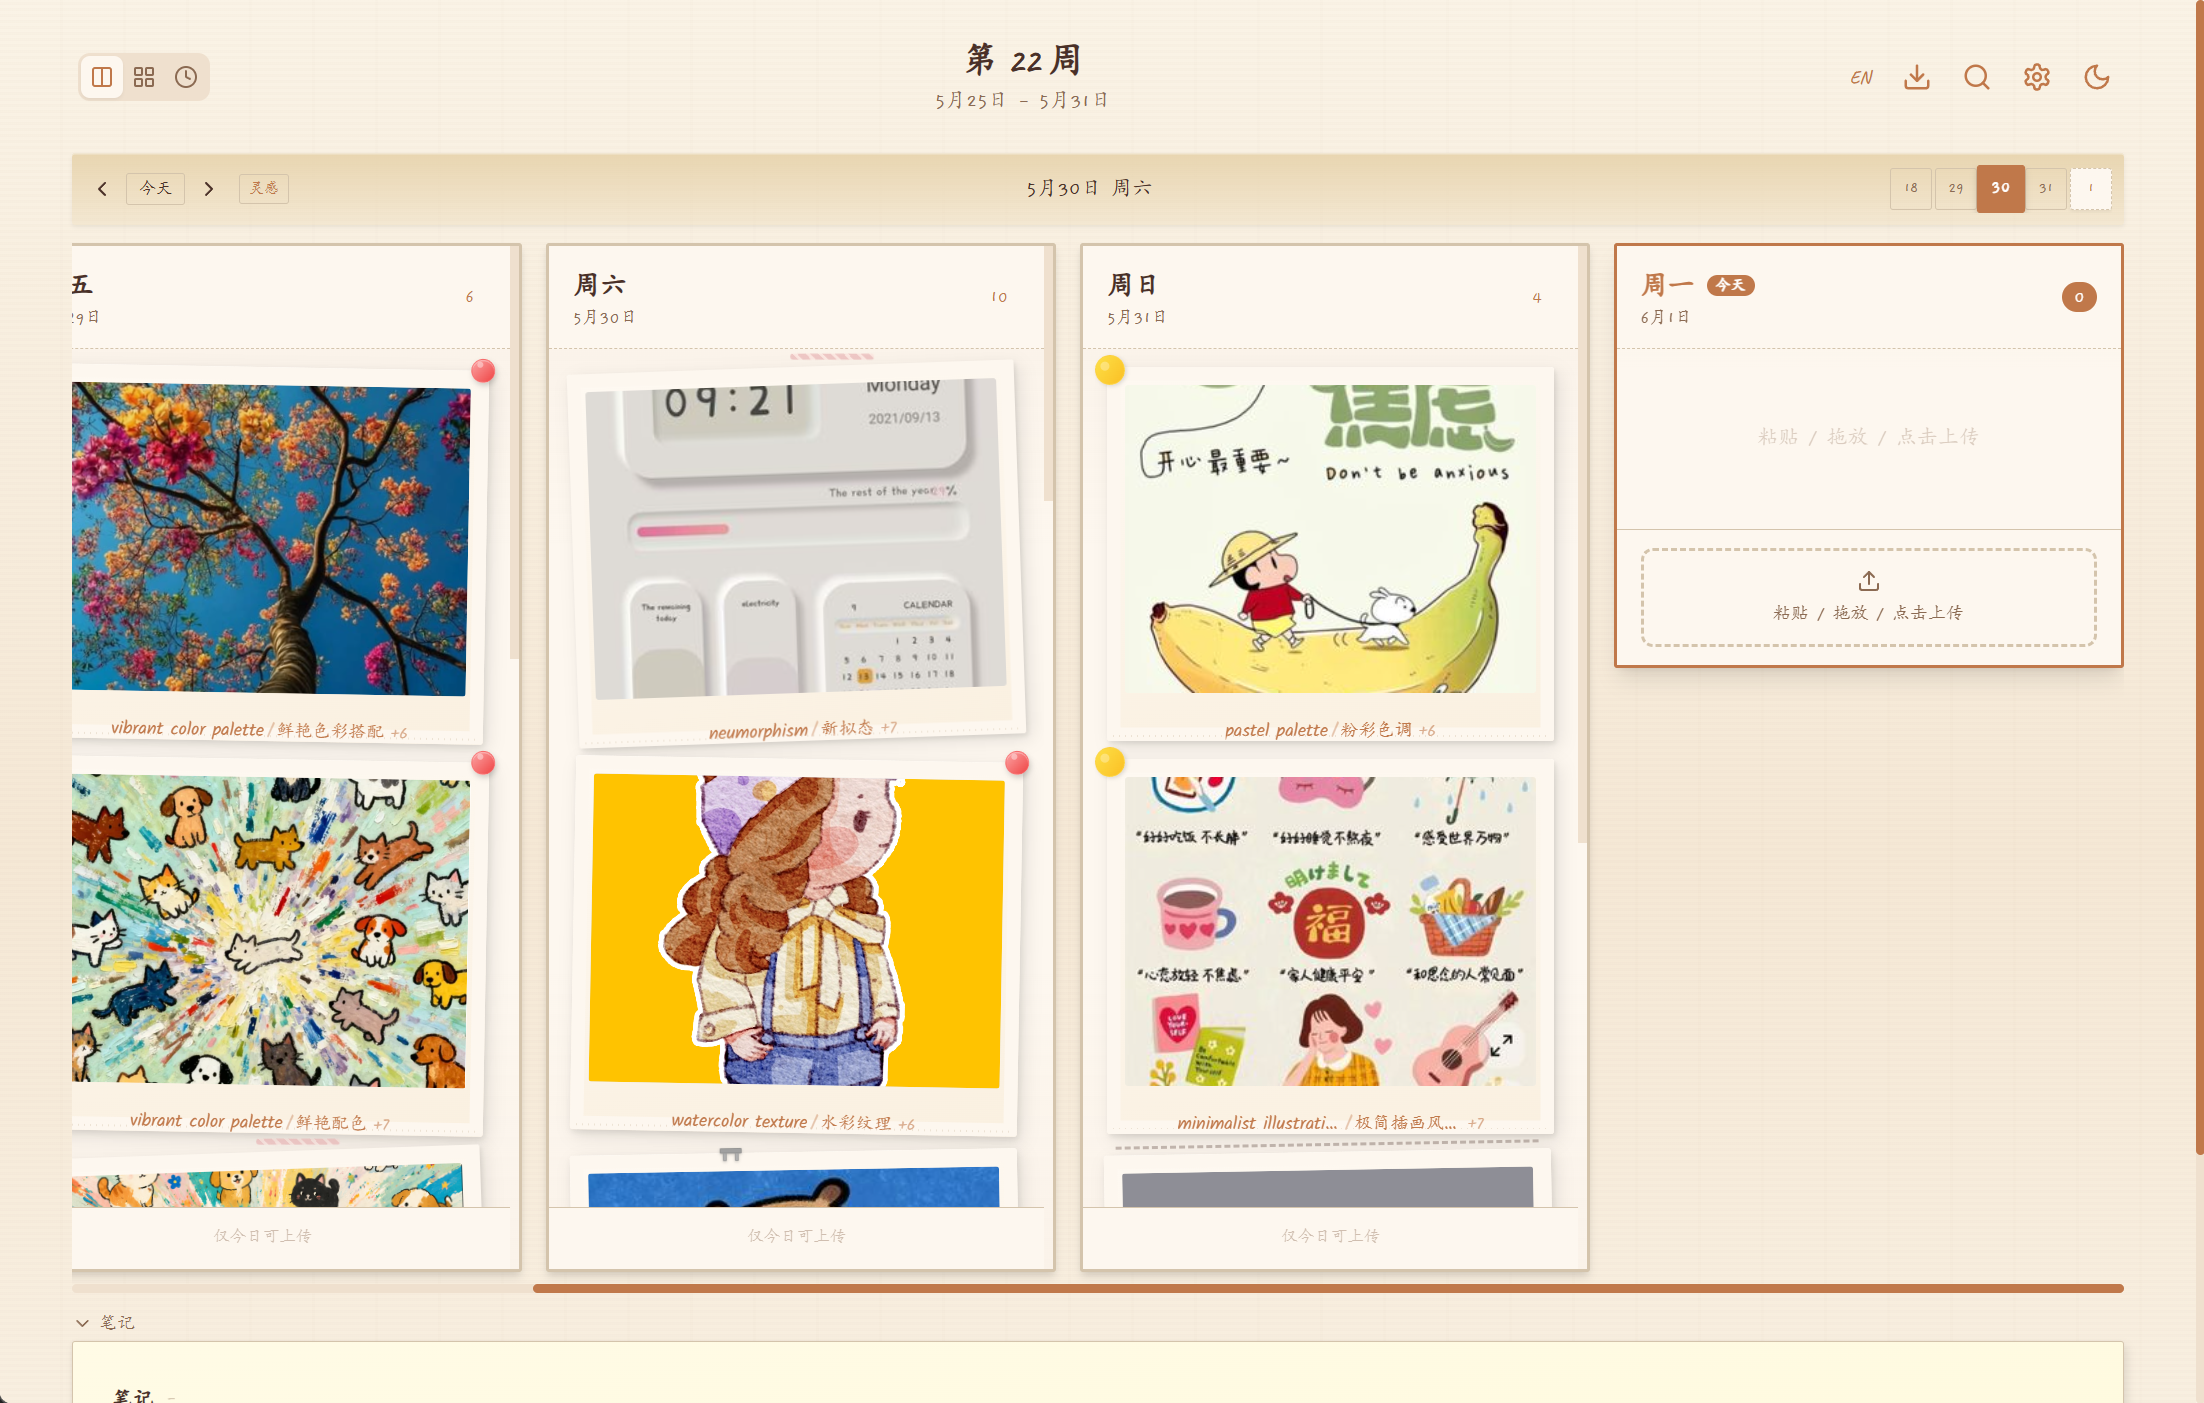
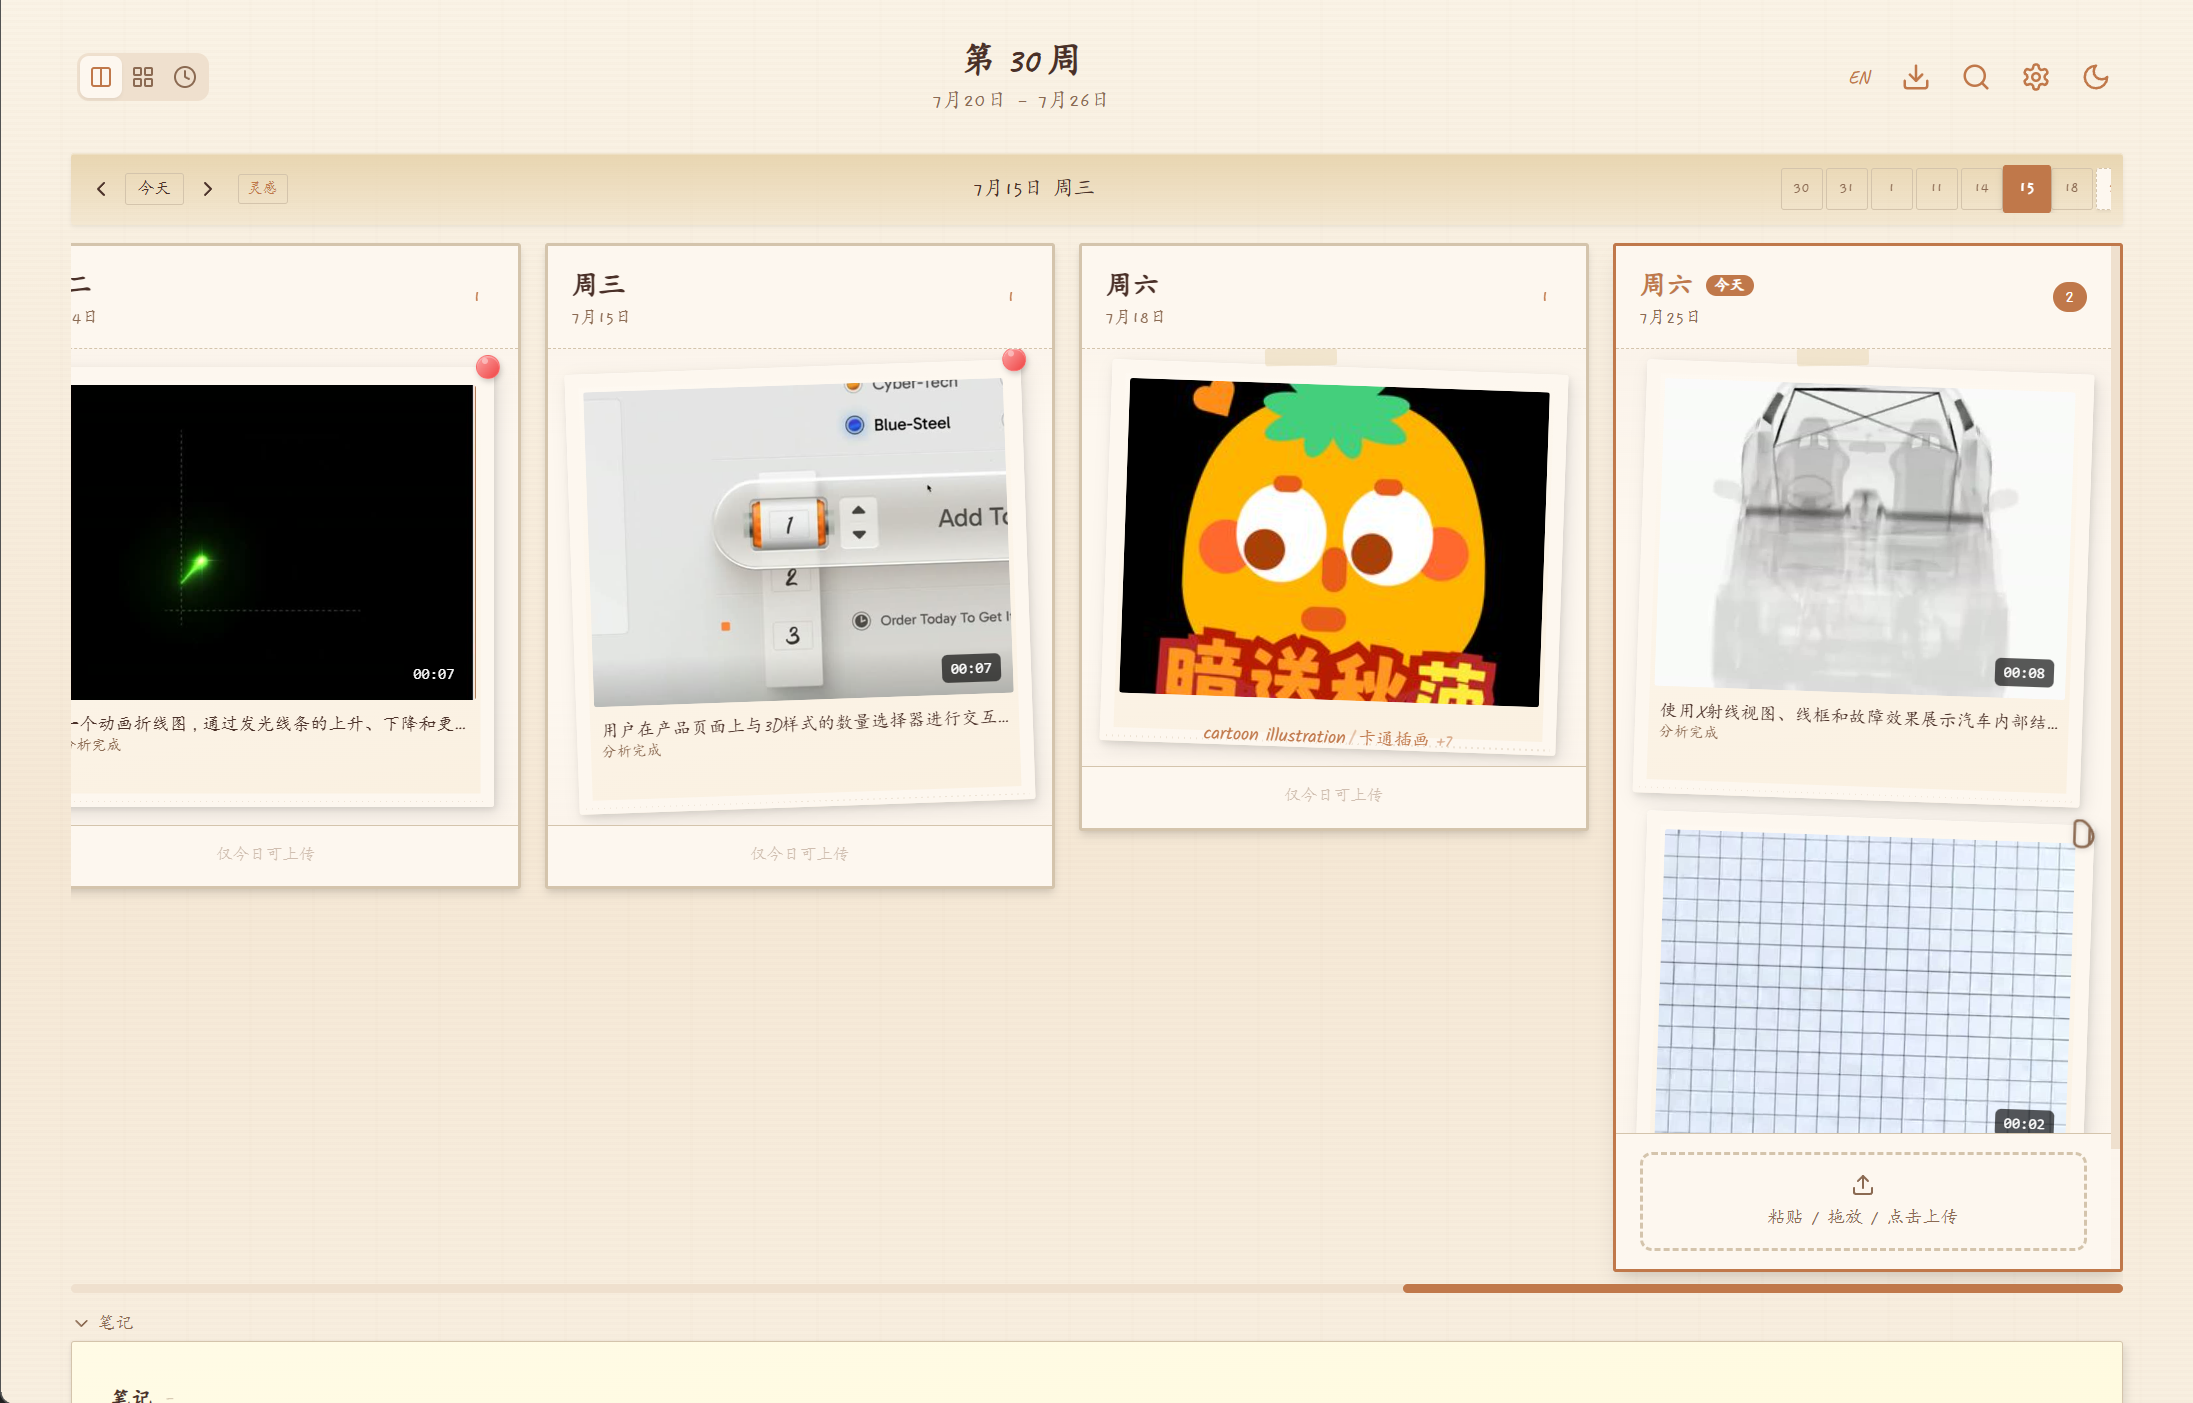
docs: 更新项目展示素材

diff --git a/README.md b/README.md
@@ -16,6 +16,7 @@
 **把截图丢进去，AI 帮你整理。** 粘贴一张设计截图，AI 会自动分析出这张图的设计关键词（比如「极简风格」「卡片布局」「大地色系」），帮你建立可搜索的灵感库。下次做设计时，搜一下就能找到之前收藏的相关灵感。
 
 **它能帮你做什么：**
+
 - 📋 **收集** — 粘贴/拖放截图，AI 自动生成设计术语标签
 - 🔍 **搜索** — 按关键词找灵感，比如搜「极简」找到所有相关设计
 - 🎨 **提取配色** — 自动提取图片主色，一键复制色值
@@ -68,27 +69,23 @@
 ## 页面展示
 
 - 主页：![主页](docs/images/home.png)
-
-- 图片详情：![详情](docs/images/detail.png)
-
+- 图片详情：![详情](docs/images/detail-i.png)
+- 视频详情：![详情](docs/images/detail-v.png)
 - 周视图：![周视图](docs/images/week.png)
-
 - 时间轴视图：![时间轴](docs/images/timeline.png)
-
 - 插件演示：![插件演示](docs/images/extension-demo.gif)
-
 - 自定义选区：![自定义选区](docs/images/extension-area.gif)
 
 ## 技术栈
 
-| 层级 | 技术 |
-|------|------|
-| 前端 | React 18, TypeScript, Vite, Tailwind CSS, Framer Motion, @dnd-kit |
-| 后端 | Node.js, Express, TypeScript, Drizzle ORM, Sharp |
-| 数据库 | PostgreSQL 16 |
-| AI | OpenAI SDK (多模型), Sharp (图片处理/色提取/pHash) |
-| 部署 | Docker Compose, Nginx |
-| 扩展 | Chrome Extension Manifest V3 |
+| 层级  | 技术                                                                |
+| --- | ----------------------------------------------------------------- |
+| 前端  | React 18, TypeScript, Vite, Tailwind CSS, Framer Motion, @dnd-kit |
+| 后端  | Node.js, Express, TypeScript, Drizzle ORM, Sharp, LangChain       |
+| 数据库 | PostgreSQL 16                                                     |
+| AI  | OpenAI SDK (多模型), Sharp (图片处理/色提取/pHash)                          |
+| 部署  | Docker Compose, Nginx                                             |
+| 扩展  | Chrome Extension Manifest V3                                      |
 
 ## 快速开始
 
@@ -111,7 +108,7 @@ pnpm install
 pnpm dev
 ```
 
-访问 http://localhost:5173
+访问 <http://localhost:5173>
 
 ### Docker 一键部署
 
@@ -122,7 +119,7 @@ cp .env.example .env
 docker compose up -d --build
 ```
 
-访问 http://localhost:8080
+访问 <http://localhost:8080>
 
 ### 浏览器扩展安装
 
@@ -133,17 +130,17 @@ docker compose up -d --build
 
 ## 环境变量
 
-| 变量 | 说明 | 默认值 |
-|------|------|--------|
-| `AI_PROVIDER` | 模型服务商 | `openai` |
-| `AI_API_KEY` | API 密钥 | `sk-placeholder` |
-| `AI_API_BASE` | API 地址 | `https://api.openai.com/v1` |
-| `AI_MODEL` | 模型名称 | `gpt-5.4` |
-| `MODEL_VIDEO_PUBLIC_BASE_URL` | 云端视频模型实际访问的视频公网地址；用于 `/api/model-videos/:id/content` 临时授权链接 | `PUBLIC_BASE_URL` |
-| `MODEL_VIDEO_VERIFY_BASE_URL` | 可选：视频公网地址预检覆盖值；默认留空并跟随 `MODEL_VIDEO_PUBLIC_BASE_URL`，避免只验证内网代理 | 空 |
-| `TUNNEL_MANAGER_URL` | Docker 内部 tunnel-manager 地址；视频分析预检失败时会调用它刷新 trycloudflare 公网地址 | `http://tunnel-manager:3002` |
-| `TUNNEL_TARGET_URL` | cloudflared 暴露到公网的容器内目标地址 | `http://client:80` |
-| `PORT` | 前端端口 | `8080` |
+| 变量                            | 说明                                                             | 默认值                          |
+| ----------------------------- | -------------------------------------------------------------- | ---------------------------- |
+| `AI_PROVIDER`                 | 模型服务商                                                          | `openai`                     |
+| `AI_API_KEY`                  | API 密钥                                                         | `sk-placeholder`             |
+| `AI_API_BASE`                 | API 地址                                                         | `https://api.openai.com/v1`  |
+| `AI_MODEL`                    | 模型名称                                                           | `gpt-5.4`                    |
+| `MODEL_VIDEO_PUBLIC_BASE_URL` | 云端视频模型实际访问的视频公网地址；用于 `/api/model-videos/:id/content` 临时授权链接    | `PUBLIC_BASE_URL`            |
+| `MODEL_VIDEO_VERIFY_BASE_URL` | 可选：视频公网地址预检覆盖值；默认留空并跟随 `MODEL_VIDEO_PUBLIC_BASE_URL`，避免只验证内网代理 | 空                            |
+| `TUNNEL_MANAGER_URL`          | Docker 内部 tunnel-manager 地址；视频分析预检失败时会调用它刷新 trycloudflare 公网地址 | `http://tunnel-manager:3002` |
+| `TUNNEL_TARGET_URL`           | cloudflared 暴露到公网的容器内目标地址                                      | `http://client:80`           |
+| `PORT`                        | 前端端口                                                           | `8080`                       |
 
 ## 项目结构
 
@@ -206,29 +203,29 @@ InspoClip/
 
 ## API 接口
 
-| 方法 | 路径 | 说明 |
-|------|------|------|
-| `GET` | `/api/weeks/:date` | 获取指定日期所在周的数据 |
-| `GET` | `/api/weeks/month/:YYYY-MM` | 获取月度时间轴数据 |
-| `POST` | `/api/images` | 上传图片 (multipart) |
-| `POST` | `/api/images/analyze` | 分析图片 (不保存) |
-| `POST` | `/api/images/check-similarity` | 检查相似图片 |
-| `POST` | `/api/images/:id/prompt` | 生成/获取 AI Prompt |
-| `POST` | `/api/images/:id/critique` | 生成/获取 AI 点评 |
-| `PATCH` | `/api/images/reorder` | 更新图片排序 |
-| `DELETE` | `/api/images/:id` | 删除图片及术语 |
-| `DELETE` | `/api/terms/:id` | 删除单个术语 |
-| `PATCH` | `/api/weeks/:id/notes` | 保存笔记 |
-| `GET` | `/api/tags` | 获取所有标签 |
-| `POST` | `/api/tags` | 创建标签 |
-| `DELETE` | `/api/tags/:id` | 删除标签 |
-| `POST` | `/api/tags/image/:id` | 给图片添加标签 |
-| `DELETE` | `/api/tags/image/:id/:tagId` | 移除图片标签 |
-| `GET` | `/api/search?q=keyword` | 搜索术语 |
-| `GET` | `/api/export/week/:date?format=` | 导出 (zip/markdown/json) |
-| `GET` | `/api/config` | 获取 AI 配置 |
-| `PATCH` | `/api/config` | 更新 AI 配置 |
-| `GET` | `/api/health` | 健康检查 |
+| 方法       | 路径                               | 说明                     |
+| -------- | -------------------------------- | ---------------------- |
+| `GET`    | `/api/weeks/:date`               | 获取指定日期所在周的数据           |
+| `GET`    | `/api/weeks/month/:YYYY-MM`      | 获取月度时间轴数据              |
+| `POST`   | `/api/images`                    | 上传图片 (multipart)       |
+| `POST`   | `/api/images/analyze`            | 分析图片 (不保存)             |
+| `POST`   | `/api/images/check-similarity`   | 检查相似图片                 |
+| `POST`   | `/api/images/:id/prompt`         | 生成/获取 AI Prompt        |
+| `POST`   | `/api/images/:id/critique`       | 生成/获取 AI 点评            |
+| `PATCH`  | `/api/images/reorder`            | 更新图片排序                 |
+| `DELETE` | `/api/images/:id`                | 删除图片及术语                |
+| `DELETE` | `/api/terms/:id`                 | 删除单个术语                 |
+| `PATCH`  | `/api/weeks/:id/notes`           | 保存笔记                   |
+| `GET`    | `/api/tags`                      | 获取所有标签                 |
+| `POST`   | `/api/tags`                      | 创建标签                   |
+| `DELETE` | `/api/tags/:id`                  | 删除标签                   |
+| `POST`   | `/api/tags/image/:id`            | 给图片添加标签                |
+| `DELETE` | `/api/tags/image/:id/:tagId`     | 移除图片标签                 |
+| `GET`    | `/api/search?q=keyword`          | 搜索术语                   |
+| `GET`    | `/api/export/week/:date?format=` | 导出 (zip/markdown/json) |
+| `GET`    | `/api/config`                    | 获取 AI 配置               |
+| `PATCH`  | `/api/config`                    | 更新 AI 配置               |
+| `GET`    | `/api/health`                    | 健康检查                   |
 
 ## TODO：插件独立运行模式
 
